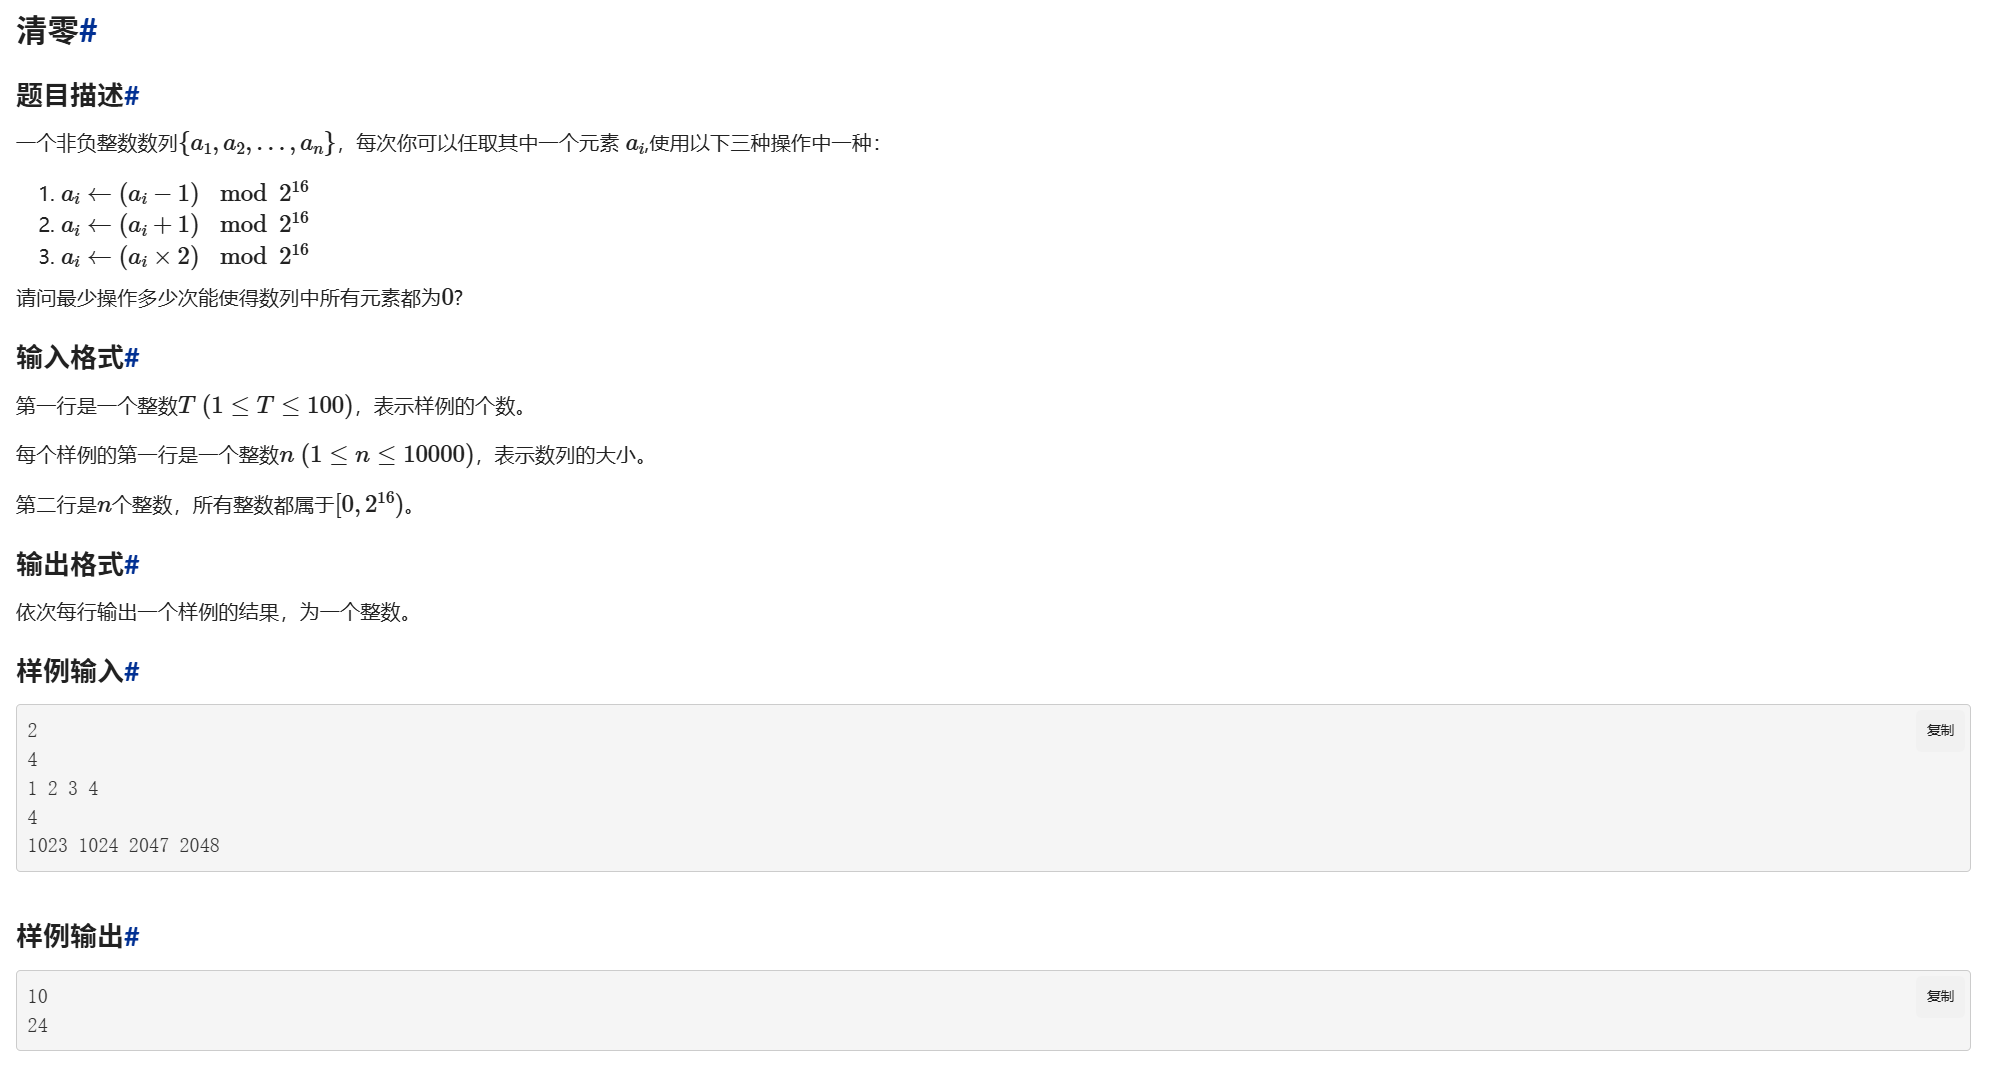
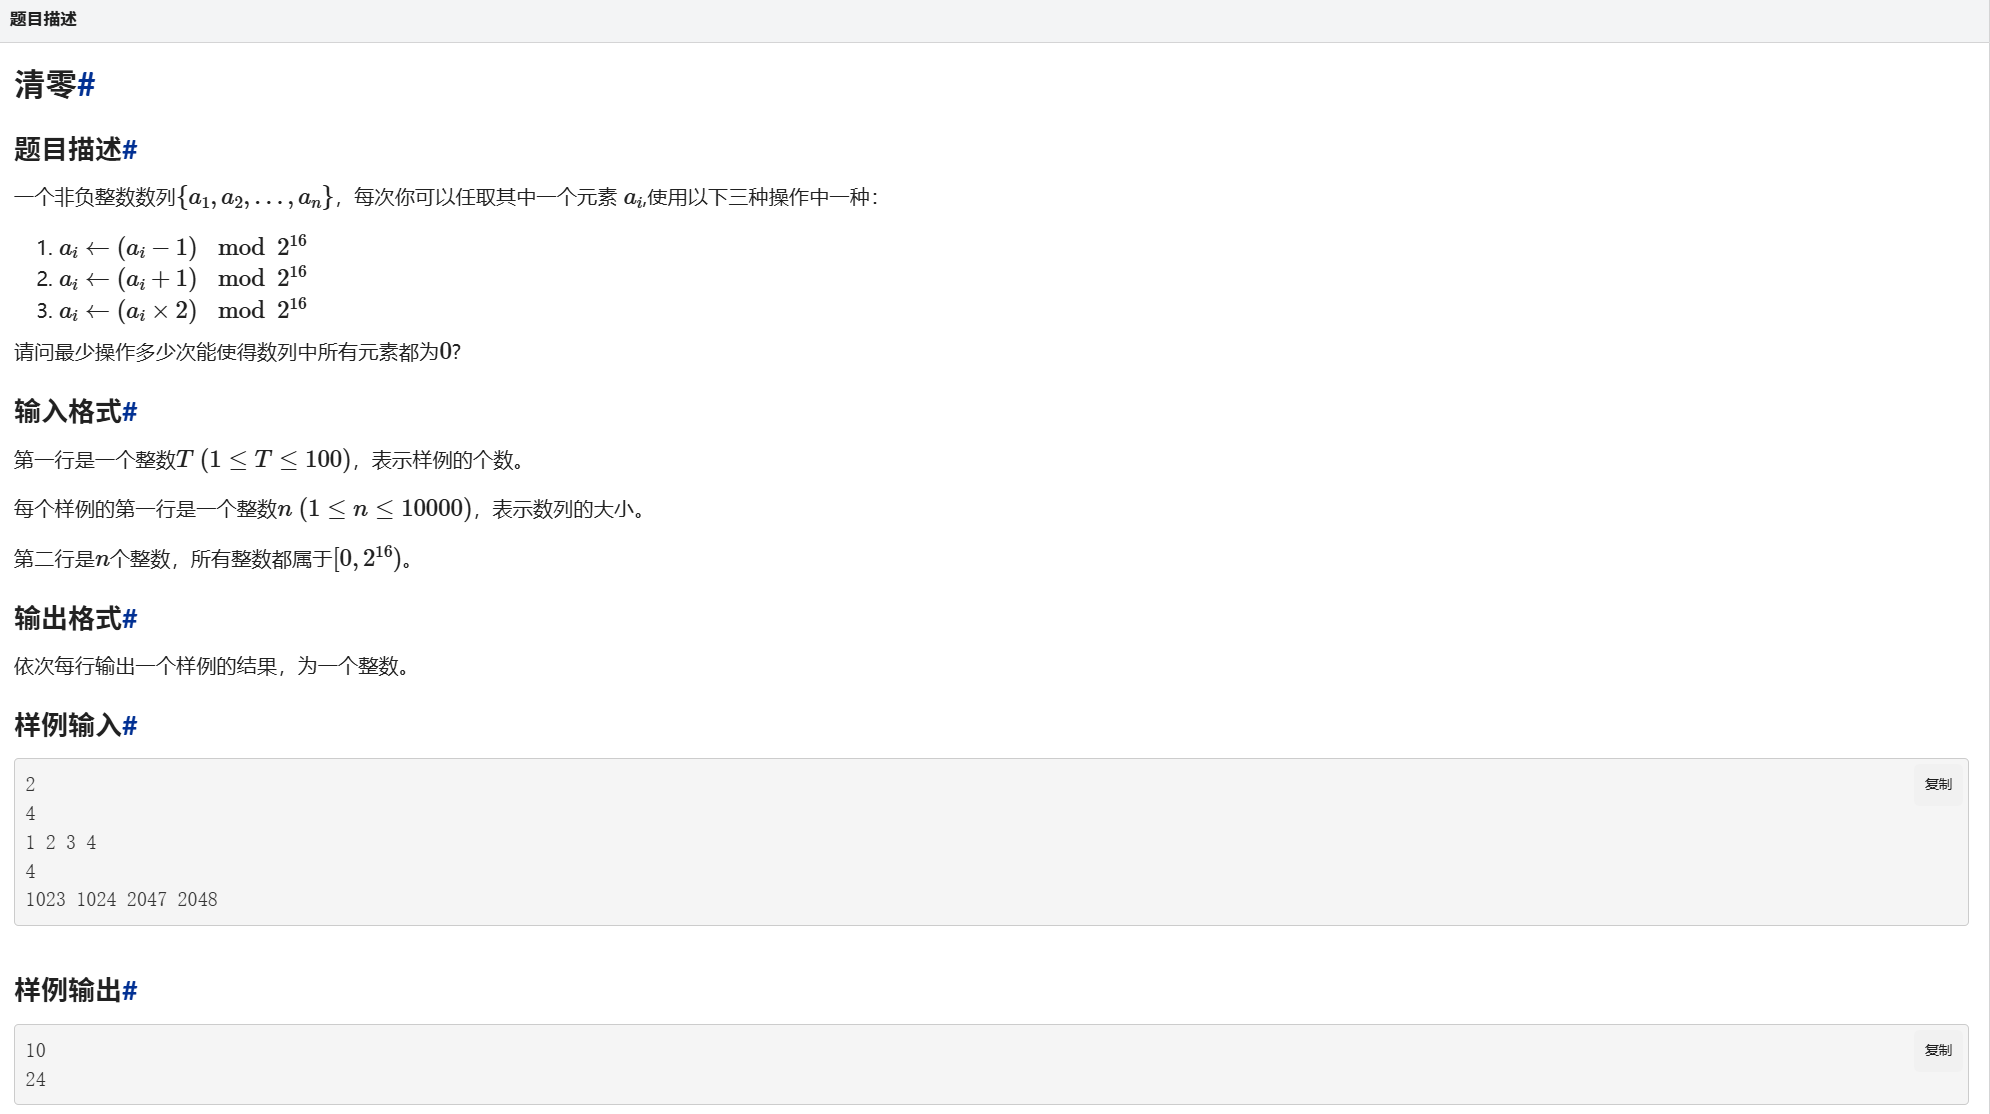
第一题推送

diff --git a/algo.md b/algo.md
@@ -1,5 +1,11 @@
-![alt text](image.png)
-#include<bits/stdc++.h>
+#算法题目汇总
+
+##bfs
+
+[逆向思考bfs](image/image.png)
+
+```cpp
+# include<bits/stdc++.h>
 using namespace std;
 const int N=1<<16;
 int arr[N+5];
@@ -7,54 +13,54 @@ set<int> s;
 queue<pair<int,int>> q;
 int main()
 {
-	q.push({0,0});
-	s.insert(0);
-	arr[0]=0;
-	while(q.size())
-	{
-		pair<int,int> p=q.front();
-		q.pop();
-		if(!s.count((p.first+1)%N))
-		{
-			q.push({(p.first+1)%N,p.second+1});
-			s.insert((p.first+1)%N);
-			arr[(p.first+1)%N]=p.second+1;
-		}
-		if(!s.count((p.first-1+N)%N))
-		{
-			q.push({(p.first-1+N)%N,p.second+1});
-			s.insert((p.first-1+N)%N);
-			arr[(p.first-1+N)%N]=p.second+1;
-		}
-		if(!s.count((p.first/2)%N)&&p.first%2==0)
-		{
-			q.push({(p.first/2)%N,p.second+1});
-			s.insert((p.first/2)%N);
-			arr[(p.first/2)%N]=p.second+1;
-		}
-		if(!s.count((p.first/2+N/2)%N)&&p.first%2==0)
-		{
-			q.push({(p.first/2+N/2)%N,p.second+1});
-			s.insert((p.first/2+N/2)%N);
-			arr[(p.first/2+N/2)%N]=p.second+1;
-		}
-		
-		
-	}
-	int T;
-	cin>>T;
-	while(T--)
-	{
-		int n;
-		cin>>n;
-		int a;
-		long long sum=0;
-		for(int i=1;i<=n;i++)
-		{
-			cin>>a;
-			sum+=arr[a];
-		}
-		cout<<sum<<endl;
-	}
-	return 0;
+ q.push({0,0});
+ s.insert(0);
+ arr[0]=0;
+ while(q.size())
+ {
+  pair<int,int> p=q.front();
+  q.pop();
+  if(!s.count((p.first+1)%N))
+  {
+   q.push({(p.first+1)%N,p.second+1});
+   s.insert((p.first+1)%N);
+   arr[(p.first+1)%N]=p.second+1;
+  }
+  if(!s.count((p.first-1+N)%N))
+  {
+   q.push({(p.first-1+N)%N,p.second+1});
+   s.insert((p.first-1+N)%N);
+   arr[(p.first-1+N)%N]=p.second+1;
+  }
+  if(!s.count((p.first/2)%N)&&p.first%2==0)
+  {
+   q.push({(p.first/2)%N,p.second+1});
+   s.insert((p.first/2)%N);
+   arr[(p.first/2)%N]=p.second+1;
+  }
+  if(!s.count((p.first/2+N/2)%N)&&p.first%2==0)
+  {
+   q.push({(p.first/2+N/2)%N,p.second+1});
+   s.insert((p.first/2+N/2)%N);
+   arr[(p.first/2+N/2)%N]=p.second+1;
+  }
+  
+ }
+ int T;
+ cin>>T;
+ while(T--)
+ {
+  int n;
+  cin>>n;
+  int a;
+  long long sum=0;
+  for(int i=1;i<=n;i++)
+  {
+   cin>>a;
+   sum+=arr[a];
+  }
+  cout<<sum<<endl;
+ }
+ return 0;
 }
+```
